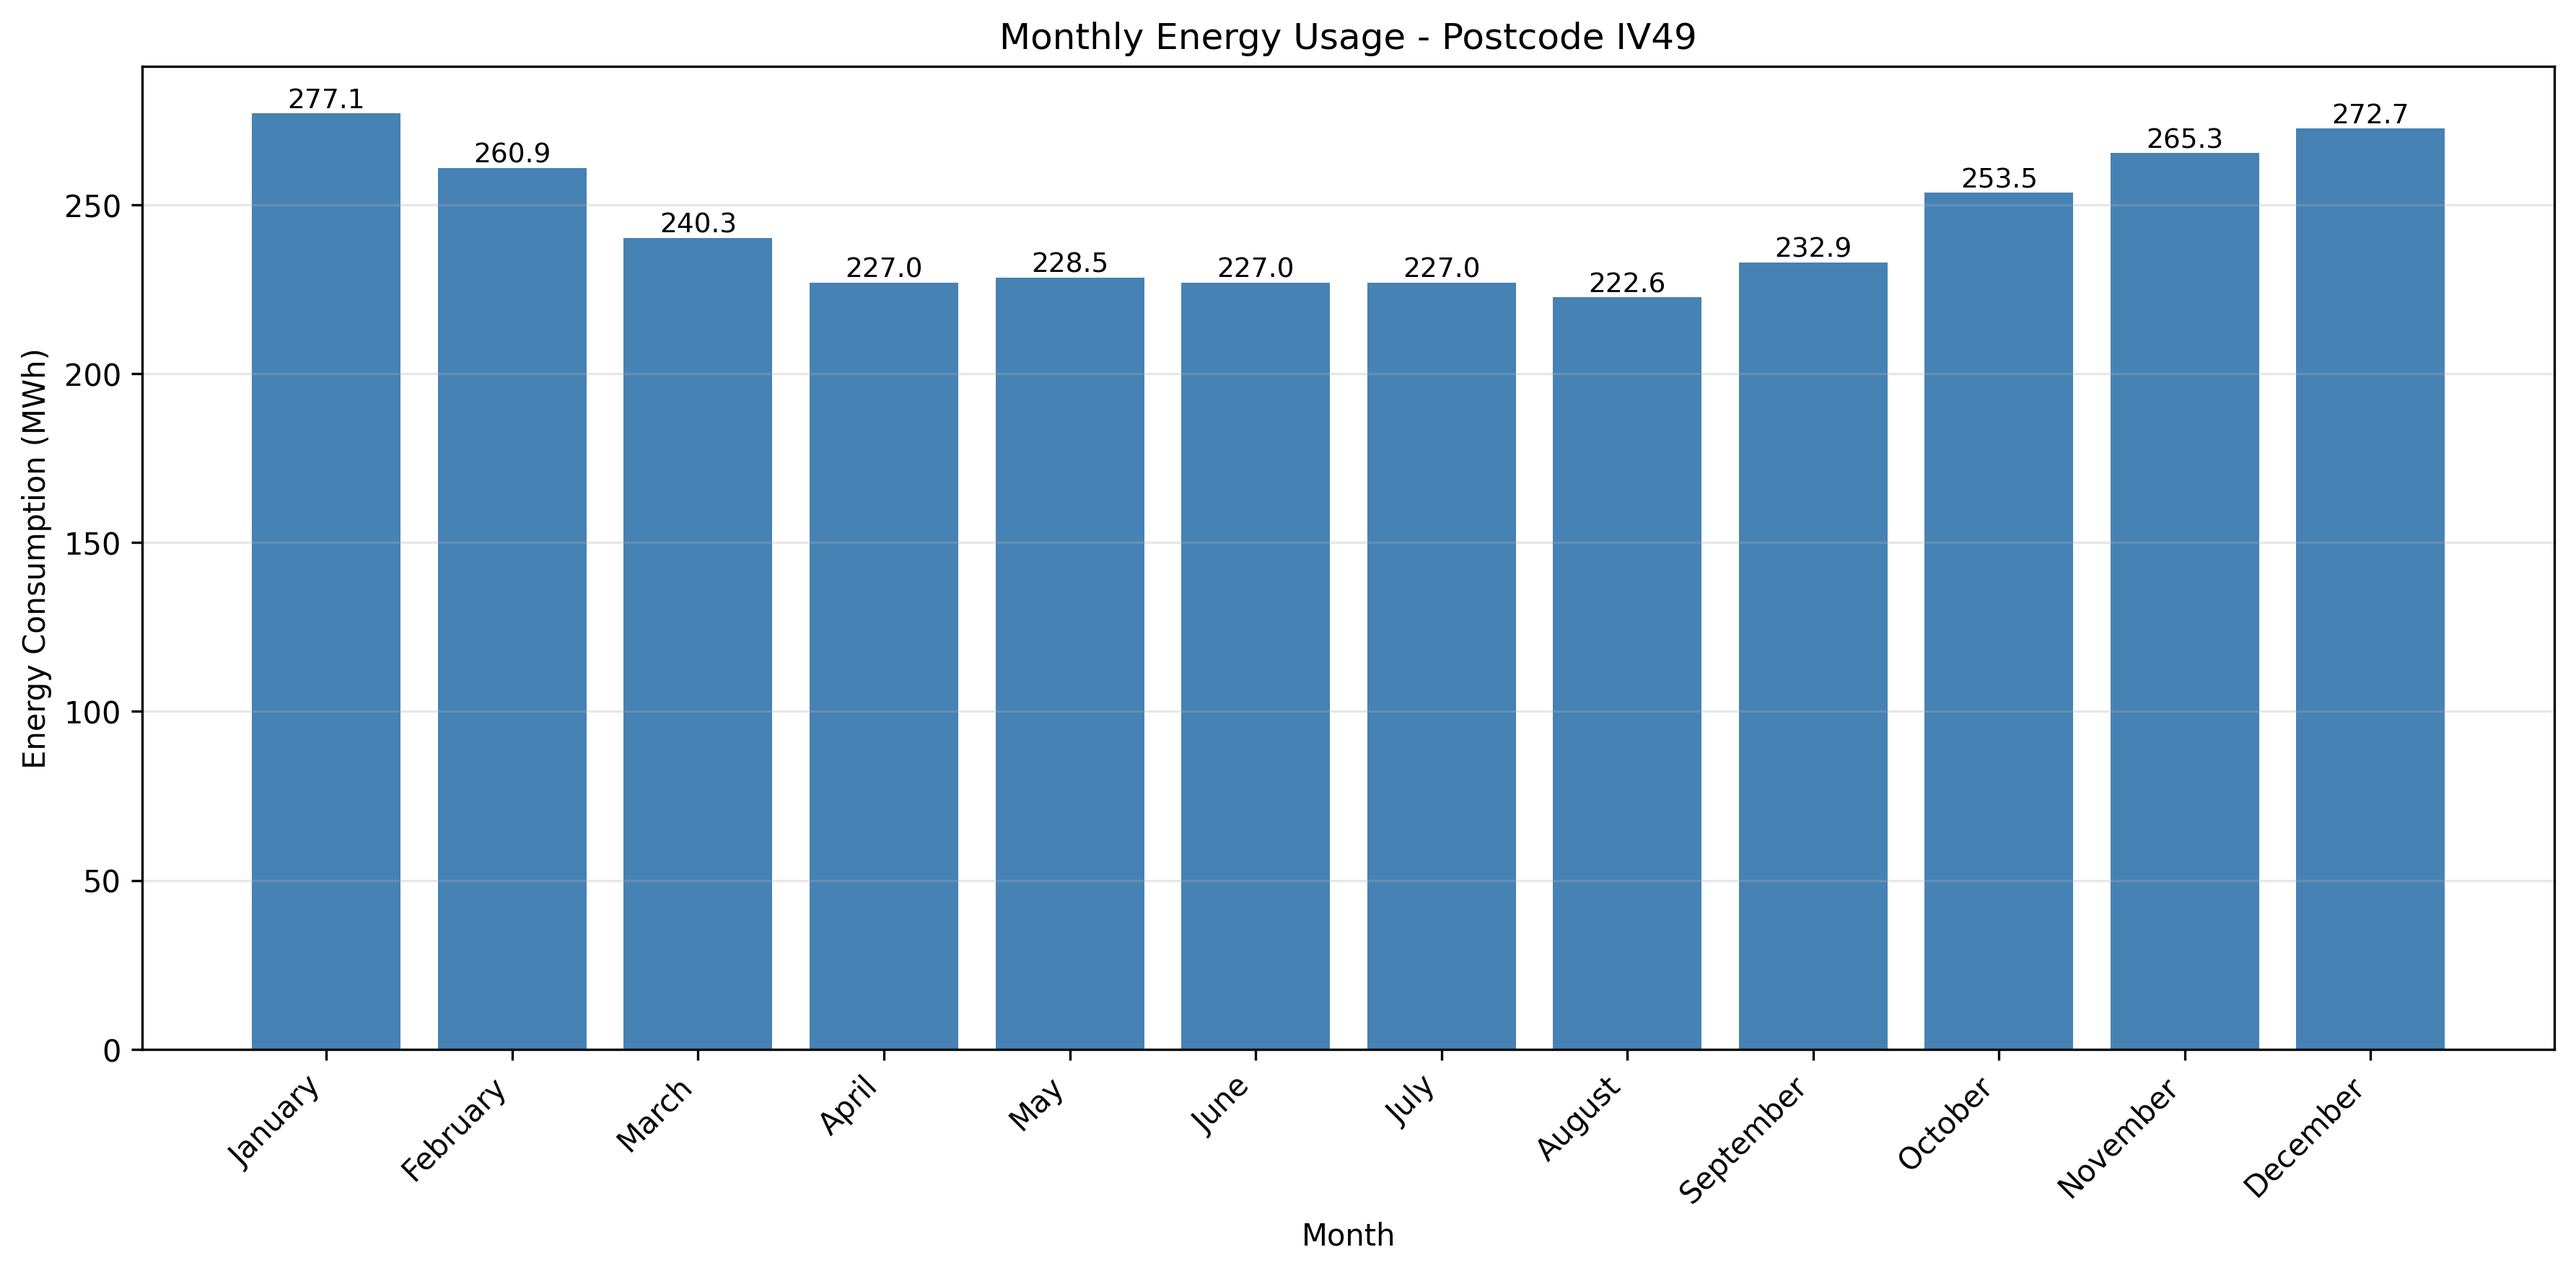
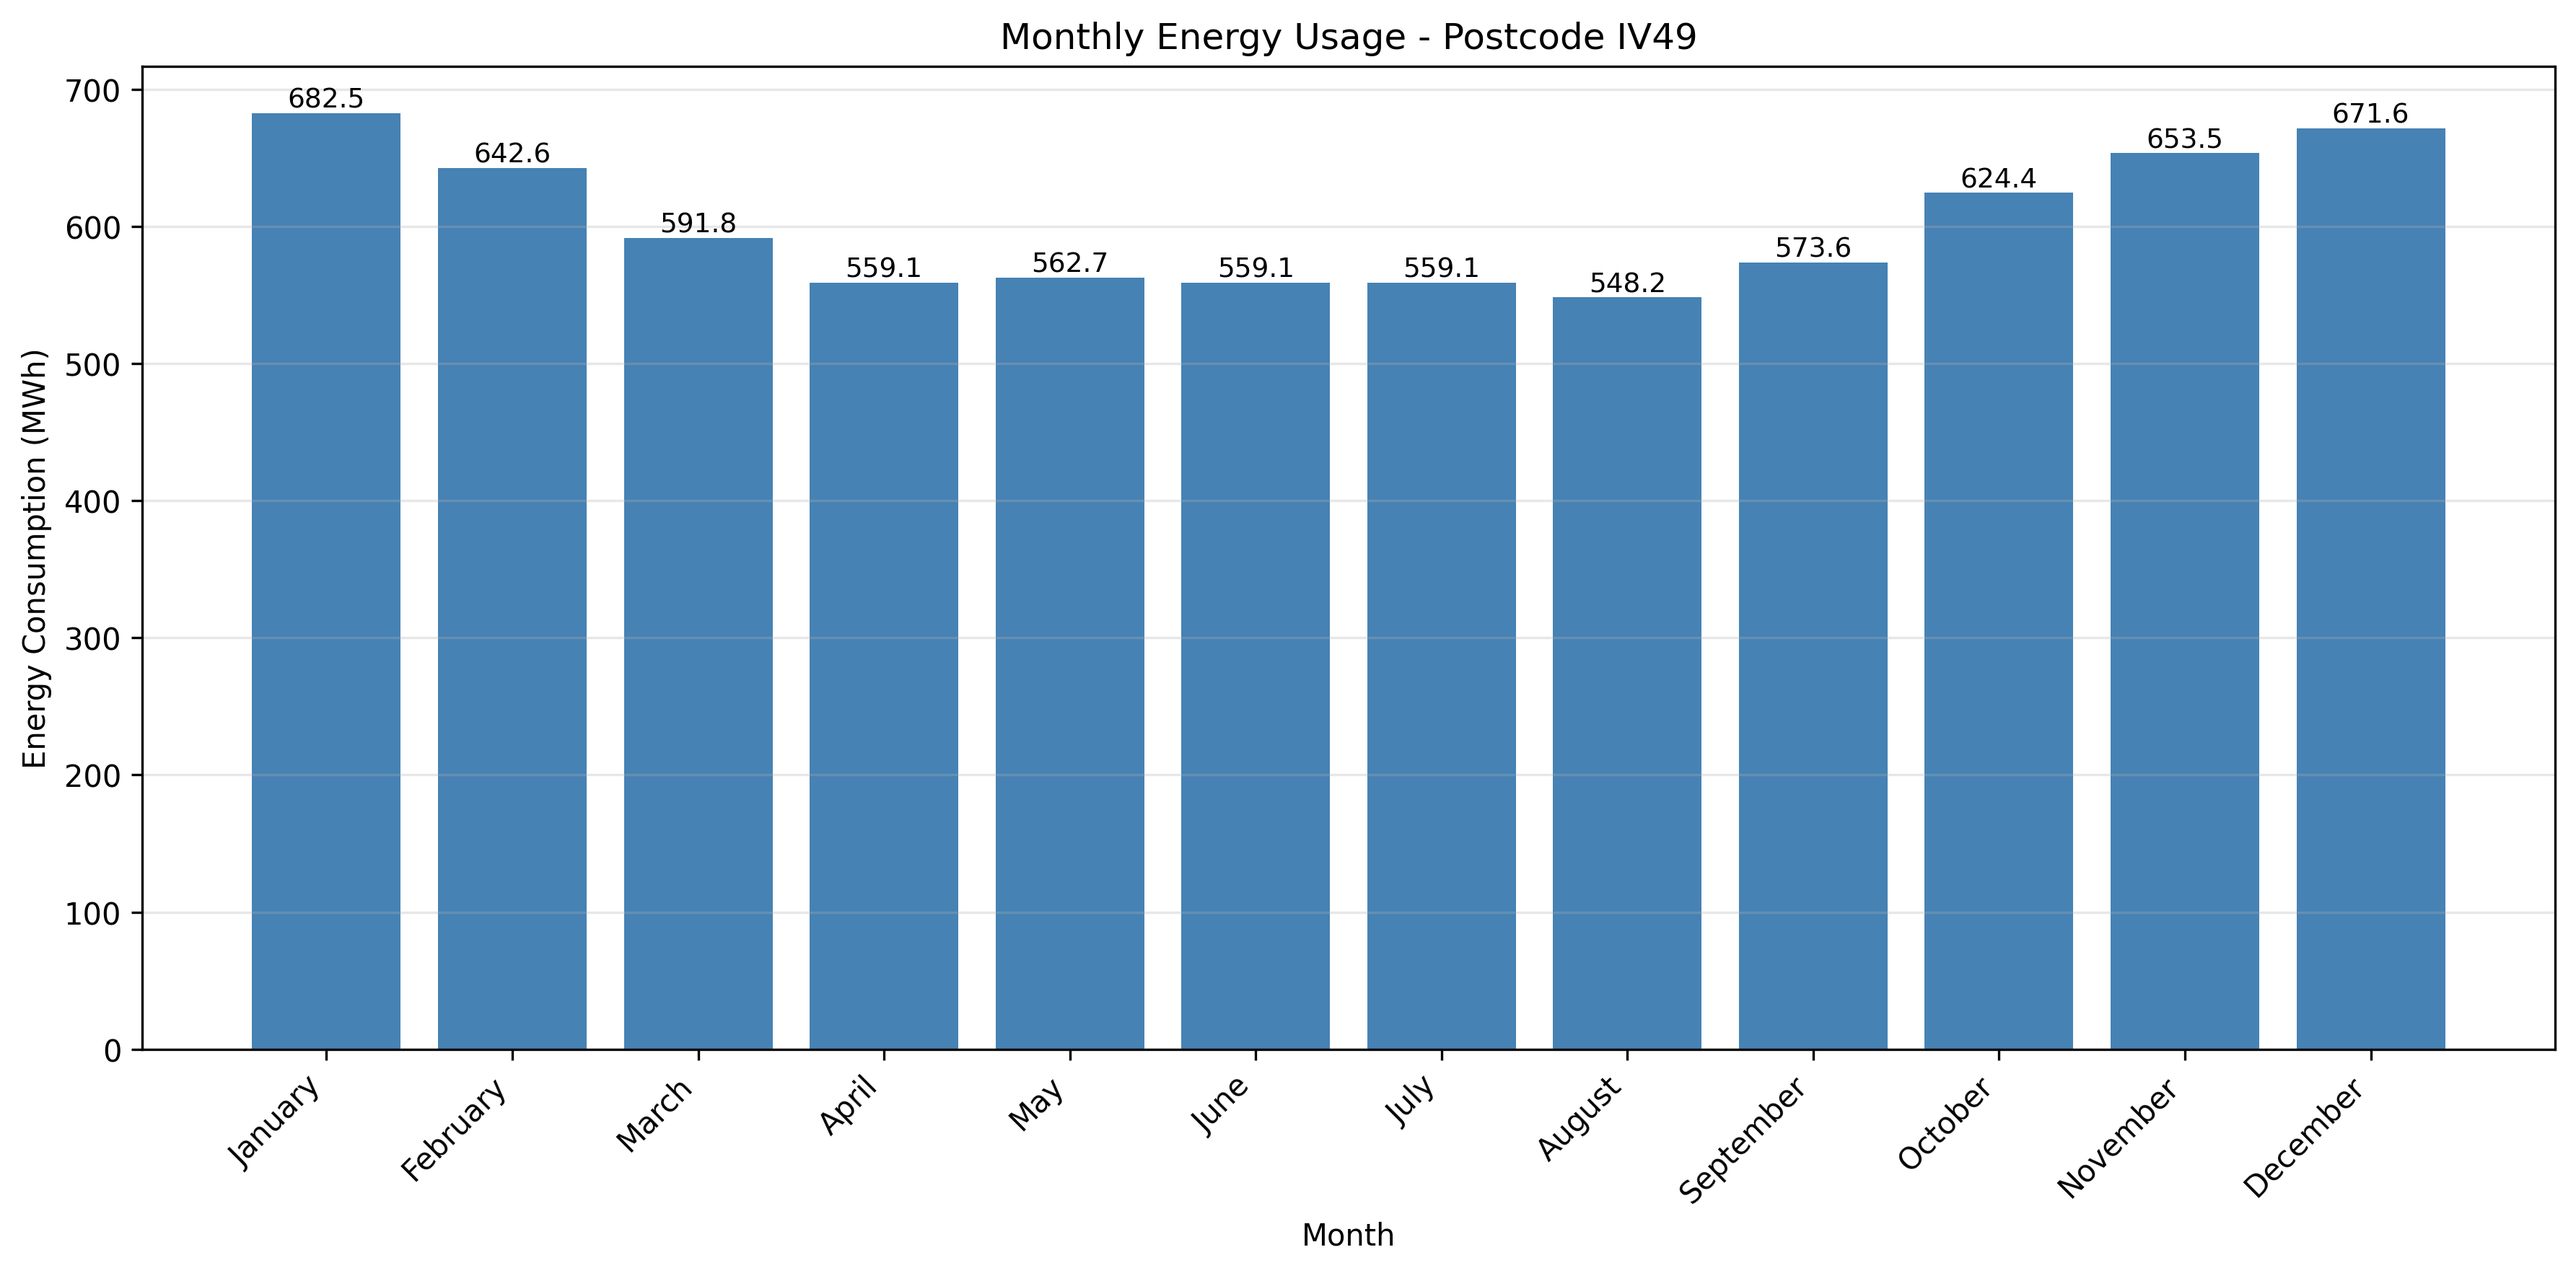
dog shelter iit

diff --git a/dog_shelter_energy.py b/dog_shelter_energy.py
@@ -1,0 +1,124 @@
+import matplotlib.pyplot as plt
+class DogShelter:
+  def __init__(self, name, area, heat_loss_coef, climate):
+    self.name = name
+    self.area = area
+    self.heat_loss_ceof = heat_loss_coef  # Unit: W/(m²·K)
+    self.climate = climate
+    self.lighting_energy_per_area_watts = 2  # Placeholder value for lighting energy per m² in watts
+    self.monthly_heating = []
+    self.monthly_lighting = []
+    self.monthly_energy = []
+    self.energy_consumption = self.calculate_total_energy()
+    
+  def print(self):
+    print(f"Shelter Name: {self.name}")
+    print(f"Area (m²): {self.area}")
+    print(f"Heat Loss Coefficient (W/(m²·K)): {self.heat_loss_ceof}")
+    print(f"Climate: {self.climate}")
+    print(f"Estimated Annual Total Energy Consumption (kWh): {self.energy_consumption:.2f}")
+
+  def calculate_heating(self, temp_diff):
+    """Calculate heating energy for a given temperature difference."""
+    # Convert from W to kWh: multiply by hours in month (730 average) and divide by 1000
+    heating_energy = temp_diff * self.area * self.heat_loss_ceof * 730 / 1000
+    return heating_energy
+  
+  def calculate_lighting(self):
+    """Calculate lighting energy for the shelter."""
+    # Placeholder for lighting calculation
+    lighting_energy = self.area * self.lighting_energy_per_area_watts * 730 / 1000  # Convert to kWh
+    return lighting_energy
+  
+  def calculate_total_energy(self, ideal_temperature=20):
+    """Calculate total energy consumption by iterating through months and calling helper functions."""
+    total_energy = 0
+    self.monthly_energy = []
+    self.monthly_heating = []
+    self.monthly_lighting = []
+    
+    for month, temp in self.climate.items():
+      # Calculate temperature difference (only for heating needs)
+      temp_diff = max(0, ideal_temperature - temp)
+      
+      # Call helper functions for each energy type
+      heating_energy = self.calculate_heating(temp_diff)
+      lighting_energy = self.calculate_lighting()
+      
+      # Store heating and lighting separately
+      self.monthly_heating.append(heating_energy)
+      self.monthly_lighting.append(lighting_energy)
+      
+      # Total energy for this month
+      monthly_total = heating_energy + lighting_energy
+      self.monthly_energy.append(monthly_total)
+      total_energy += monthly_total
+    
+    return total_energy
+
+  def plot_monthly_energy(self):
+    months = list(self.climate.keys())
+    
+    plt.figure(figsize=(12, 6))
+    x_pos = range(len(months))
+    
+    # Create stacked bar chart
+    bars1 = plt.bar(x_pos, self.monthly_heating, label='Heating', color='#FF6B6B')
+    bars2 = plt.bar(x_pos, self.monthly_lighting, bottom=self.monthly_heating, label='Lighting', color='#FFA500')
+    
+    # Add value labels on top of each bar
+    for i, month in enumerate(months):
+      total = self.monthly_heating[i] + self.monthly_lighting[i]
+      plt.text(i, total, f'{total:.1f}', ha='center', va='bottom', fontsize=9)
+    
+    plt.xlabel('Month')
+    plt.ylabel('Energy Consumption (kWh)')
+    plt.title(f'Monthly Energy Consumption Split for {self.name}')
+    plt.xticks(x_pos, months, rotation=45, ha='right')
+    plt.legend()
+    plt.grid(axis='y', alpha=0.3)
+    plt.tight_layout()
+    plt.savefig(f"{self.name}_monthly_energy.png")
+    plt.show()
+    
+  
+  
+if __name__ == "__main__":
+  standard_hl_coef = 4
+
+  crosshands_monthly_temps = {
+    "January": 5,
+    "February": 4,
+    "March": 6,     
+    "April": 8,
+    "May": 11,
+    "June": 13,
+    "July": 15,
+    "August": 15,
+    "September": 13,
+    "October": 10,
+    "November": 7,
+    "December": 5
+  }
+
+  cornaredo_monthly_temps = {
+    "January": 2,
+    "February": 4,
+    "March": 9,     
+    "April": 13,
+    "May": 17,
+    "June": 21,
+    "July": 24,
+    "August": 23,
+    "September": 19,
+    "October": 13,
+    "November": 7,
+    "December": 3
+  }
+
+  ukshelter = DogShelter("Many Tears Rescue Wales", 150, standard_hl_coef, crosshands_monthly_temps)
+  italyshelter = DogShelter("APS", 300, standard_hl_coef, cornaredo_monthly_temps)
+  ukshelter.print()
+  italyshelter.print()
+  ukshelter.plot_monthly_energy()
+  italyshelter.plot_monthly_energy()

diff --git a/monthly_energy_uk.py b/monthly_energy_uk.py
@@ -2,7 +2,7 @@ import pandas as pd
 import matplotlib.pyplot as plt
 from typing import Dict
 
-def calculate_monthly_usage(postcode: str, actual_households: int, monthly_relative_usage: Dict[str, float]) -> Dict[str, float]:
+def calculate_monthly_usage(postcode: str, actual_households: int, monthly_relative_usage: Dict[str, float], domestic_percentage: float = 0.406) -> Dict[str, float]:
   """
   Calculate monthly energy usage for a postcode based on actual households and monthly trends.
   
@@ -11,6 +11,7 @@ def calculate_monthly_usage(postcode: str, actual_households: int, monthly_relat
     actual_households: Number of households to scale to
     monthly_relative_usage: Dictionary mapping month names to relative usage factors
                            (e.g., {'January': 1.2, 'February': 1.15, ...})
+    domestic_percentage: Fraction of total energy consumption that is domestic (default: 0.406 for 40.6%)
   
   Returns:
     Dictionary with monthly consumption values in MWh
@@ -35,6 +36,10 @@ def calculate_monthly_usage(postcode: str, actual_households: int, monthly_relat
   
   # Calculate total usage for actual number of households
   total_annual_consumption = consumption_per_household * actual_households
+  
+  # The calculated result is domestic_percentage of total energy consumption
+  # Scale up to get the full total (e.g., if domestic is 40.6%, scale up by 1/0.406)
+  total_annual_consumption = total_annual_consumption / domestic_percentage
   
   # Normalize monthly relative usage so that it sums to 12 (average of 1.0 per month)
   sum_relative = sum(monthly_relative_usage.values())
